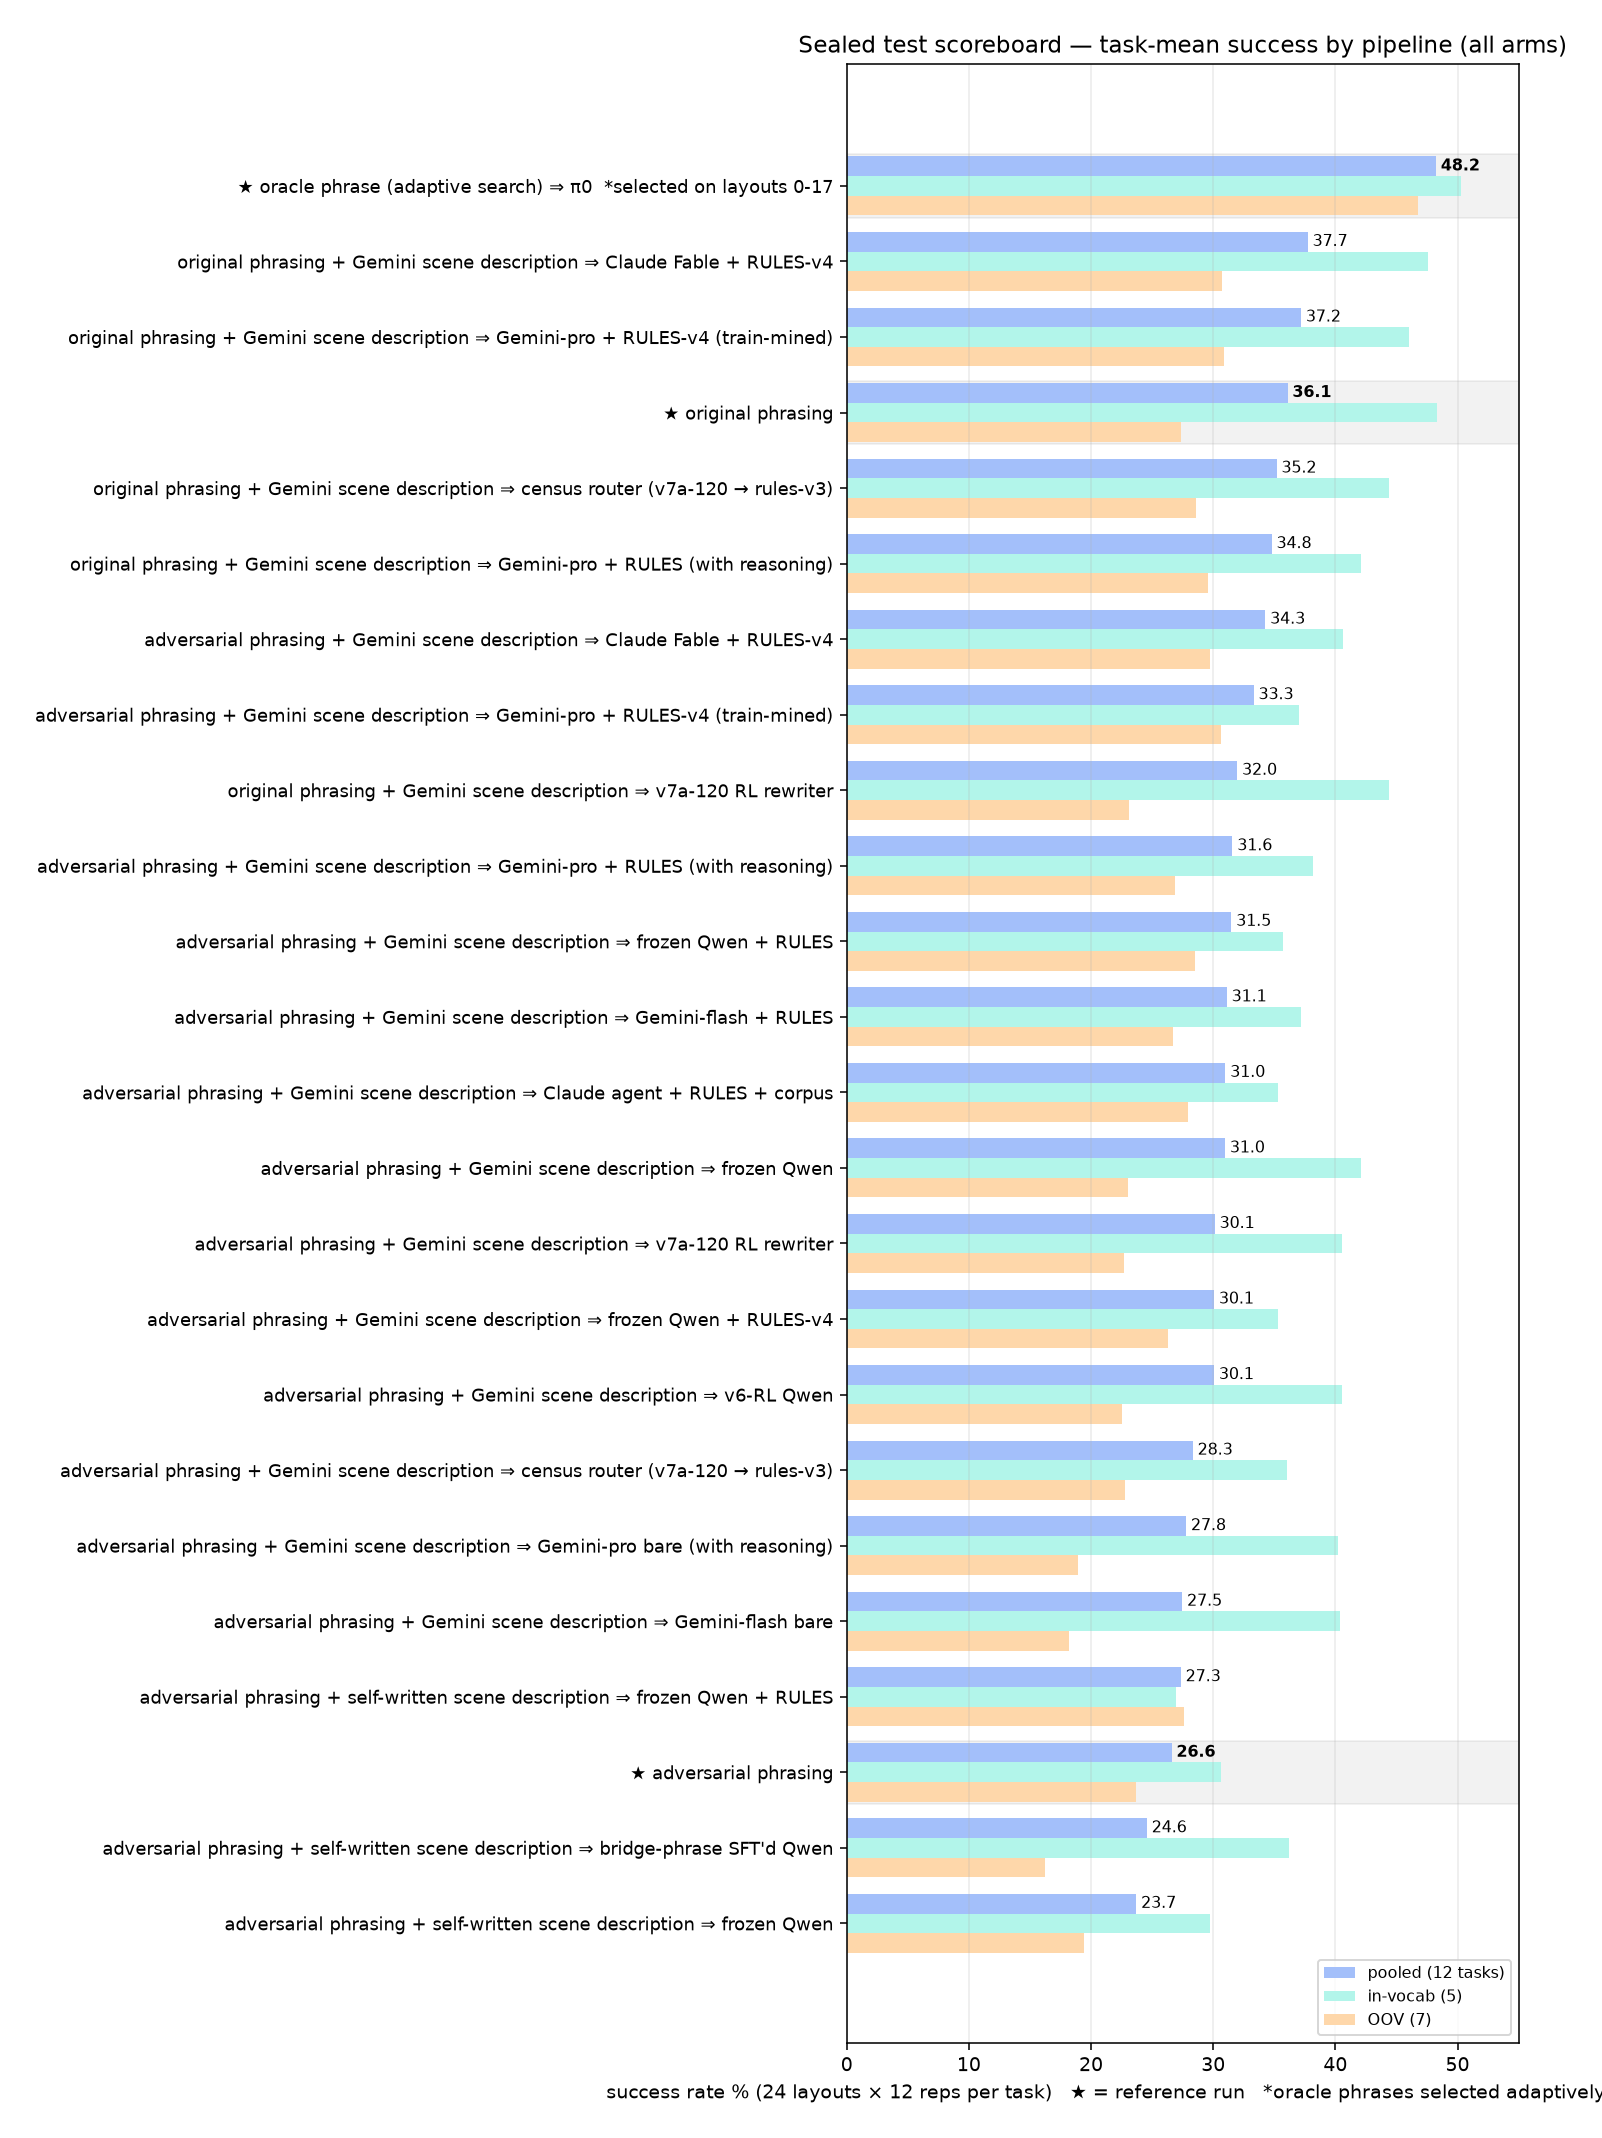
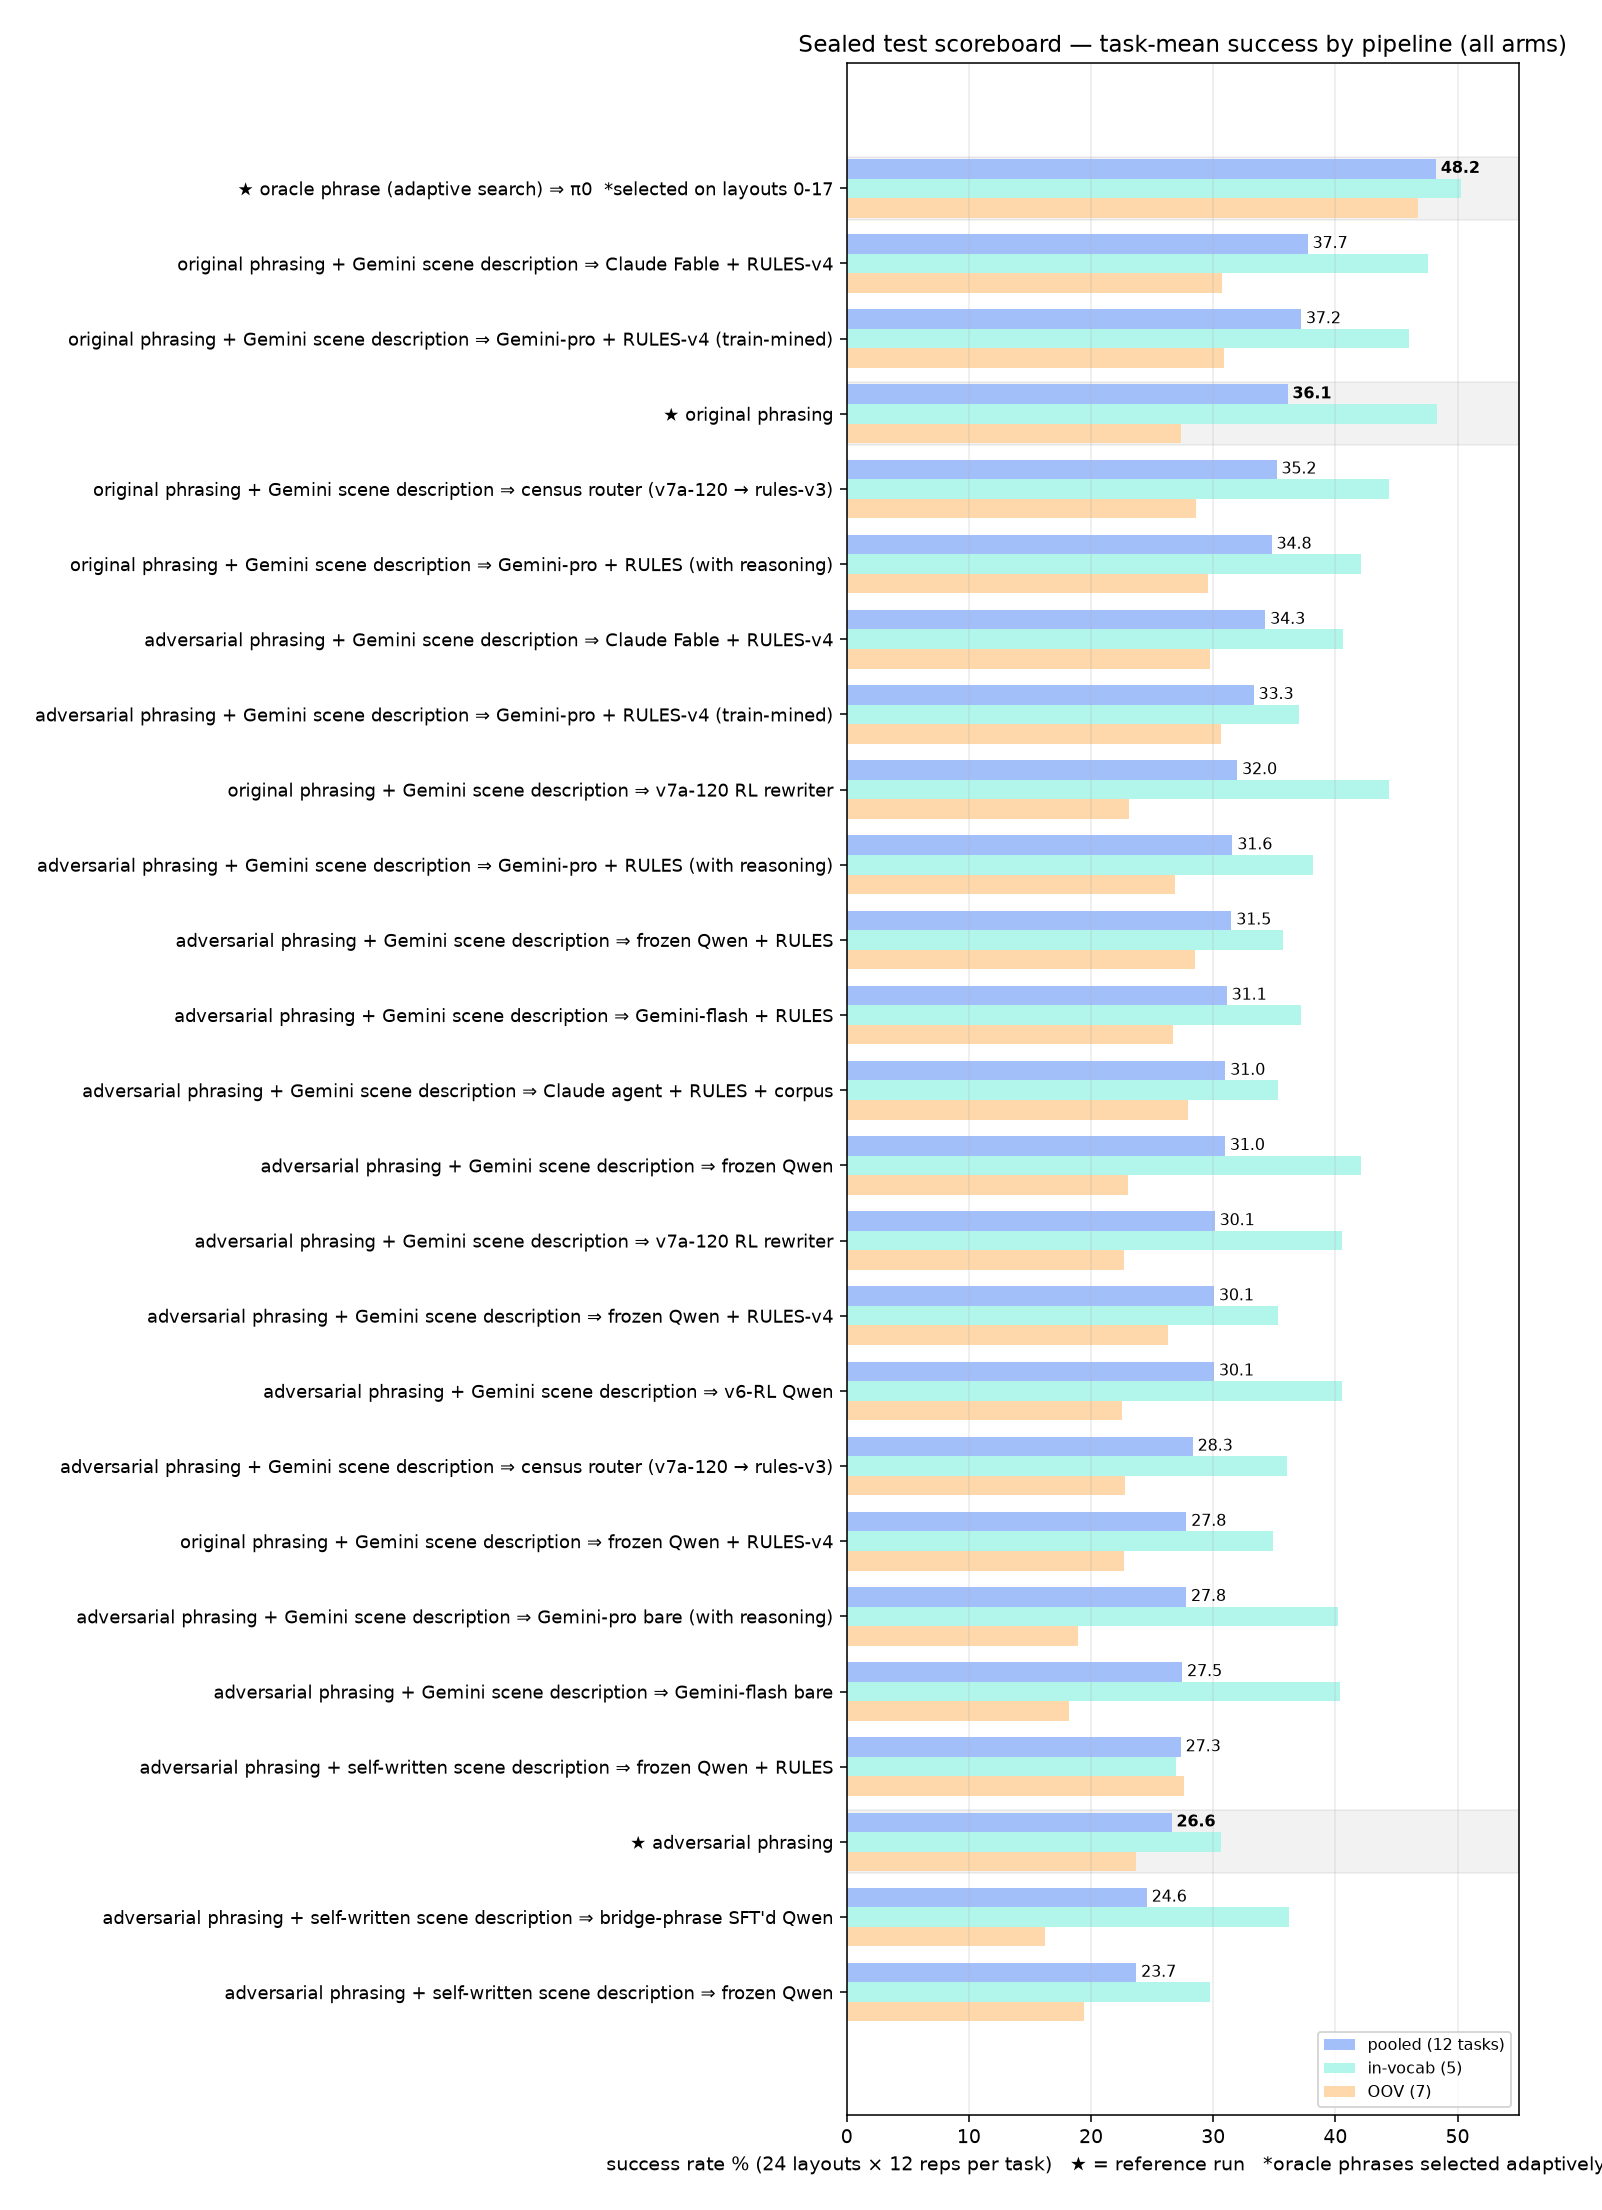
scoreboard jsonl fallback for arms F/G

diff --git a/scripts/make_sealed_scoreboard.py b/scripts/make_sealed_scoreboard.py
@@ -54,6 +54,8 @@ NAME = {
 JSONL_ARMS = [
     ("results/analysis/sealed_v7a120.jsonl", {"v7a120_polish"}),
     ("results/analysis/armD_composed.jsonl", {"armD_seatA_polish", "armD_seatA_repair"}),
+    ("results/analysis/sealed_rules_v4_qwen.jsonl", {"rules_v4_qwen_nominal", "rules_v4_qwen_ert"}),
+    ("results/analysis/sealed_rules_v4_claude.jsonl", {"rules_v4_claude_nominal", "rules_v4_claude_ert"}),
 ]
 
 ENV_OVERRIDE = {  # audit env names that don't mechanically map to task names
@@ -104,7 +106,8 @@ def main() -> None:
             continue
         for l in lines:
             r = json.loads(l)
-            if r.get("arm") not in wanted or r["arm"] in seen_jsonl or "per_task" not in r:
+            have = {row["arm"] for row in rows}
+            if r.get("arm") not in wanted or r["arm"] in seen_jsonl or r["arm"] in have or "per_task" not in r:
                 continue
             seen_jsonl.add(r["arm"])
             pt = pd.Series(r["per_task"])
